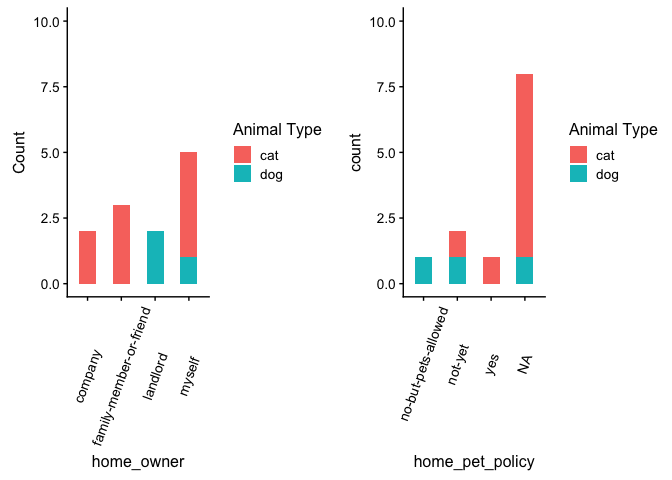
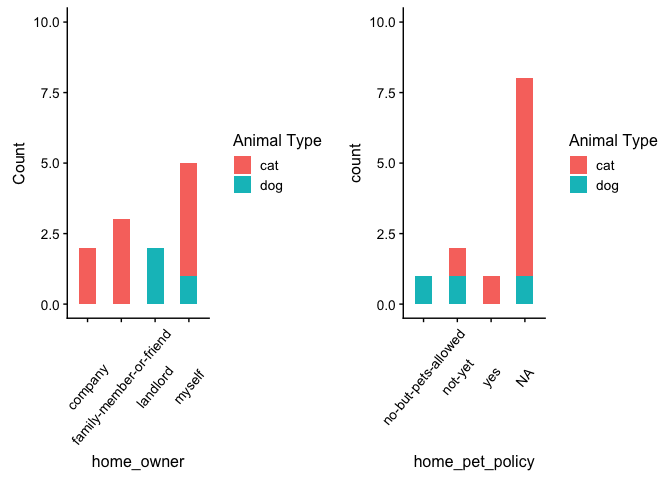
final denied application analysis

diff --git a/Analyses/2_Applicants/final_analyses/q4_denied_applications.md b/Analyses/2_Applicants/final_analyses/q4_denied_applications.md
@@ -6,7 +6,7 @@ Veena
 -   [Load Packages](#load-packages)
 -   [Load Data](#load-data)
 -   [Explore Data](#explore-data)
--   [Visualization and further analysis for applications that were denied and withdrawn](#visualization-and-further-analysis-for-applications-that-were-denied-and-withdrawn)
+-   [Visualization and further analysis for applications that were denied](#visualization-and-further-analysis-for-applications-that-were-denied)
 -   [Visualization and further analysis for applications that are red flagged](#visualization-and-further-analysis-for-applications-that-are-red-flagged)
 
 1.  Describe an adoption application's trajectory at PAWS <br> 2.4 What are the applicant and animal characteristics that predict a denied application?
@@ -33,13 +33,26 @@ Load Data
 
 ``` r
 apps_cards <- readRDS("../appsCards.rds")
+
+masterData <- readRDS("../masterapps_20190324.rds")
 ```
 
 Explore Data
 ------------
 
 ``` r
-#dim(apps_cards)
+dim(apps_cards)
+```
+
+    ## [1] 1631  202
+
+``` r
+dim(masterData)
+```
+
+    ## [1] 1684  249
+
+``` r
 is.data.frame(apps_cards)
 ```
 
@@ -85,20 +98,30 @@ dplyr::count(apps_cards, label.names_red.flag_ind) #133 red flagged
 #colnames(apps_cards)
 
 df_denied <- dplyr::filter(apps_cards, label.names_denied_ind == 1)
-df_redflag <- dplyr::filter(apps_cards, label.names_red.flag_ind == 1)
+df_redflag <- dplyr::filter(masterData, label.names_red.flag_ind == 1)
 #df_withdrawn <- dplyr::filter(apps_cards, label.names_withdrawn_ind == 1)
+dim(df_denied)
 ```
 
-Visualization and further analysis for applications that were denied and withdrawn
-----------------------------------------------------------------------------------
+    ## [1]  12 202
+
+``` r
+dim(df_redflag)
+```
+
+    ## [1] 135 249
+
+Visualization and further analysis for applications that were denied
+--------------------------------------------------------------------
 
 <br> There were 12 applications that were denied and 19 that were withdrawn. The analysis below shows the characteristics of the applications that were denied. Below are visualizations that show the budget, allergies, home owner, home pet policy, and experience breakdown for denied applications. <br>
-<pre>
-Key takeaways:
+<pre>Key takeaways:
 - No allergies for the denied application
-- Budget has no impact on denied application
-- Based on the denied applications, all household members agreed
-- Majority did not enter the home pet policy and not everyone is the home owner</pre>
+- Budget has no impact on denied application, approved applications were similar
+- All household members agreed
+- Majority did not enter the home pet policy and not everyone is the home owner
+- Many of the denied applications had unfortunate prior experiences
+</pre>
 ``` r
 #budget, all household agree, allergies, homeowner, home pet policy (lot of NA), experience
 ggplot(df_denied, aes(x=budget_monthly_ranges)) + 
@@ -142,13 +165,13 @@ g1 <- ggplot(df_denied, aes(x=home_owner)) +
   labs(y= "Count",
        fill = "Animal Type") +
   coord_cartesian(ylim=c(0, 10)) +
-  theme(axis.text.x = element_text(angle=70, vjust=0.5))
+  theme(axis.text.x = element_text(angle=50, vjust=0.5))
 
 g2 <- ggplot(df_denied, aes(x=home_pet_policy)) + 
   geom_bar(aes(fill=animal_type), width=.5) +
   labs(fill = "Animal Type") +
   coord_cartesian(ylim=c(0, 10)) +
-  theme(axis.text.x = element_text(angle=70, vjust=0.5))
+  theme(axis.text.x = element_text(angle=50, vjust=0.5))
 
 theme_set(theme_cowplot(font_size=12))
 plot_grid(g1, g2, align='h')
@@ -157,9 +180,47 @@ plot_grid(g1, g2, align='h')
 ![](q4_denied_applications_files/figure-markdown_github/denied%20and%20withdrawn-4.png)
 
 ``` r
-#trying to get all the experiences to show in one chart
-df3 <- gather(df_denied, key="Experience", value="Count", "experience_currently.have.pet_ind":"experience_pet.ran.away_ind", -date_submitted)
+#home along average; varies too much
+ggplot(df_denied, aes(x=home_alone_avg)) + 
+  geom_bar(aes(fill=animal_type), width=.5) +
+  ggtitle("Home Along Avg for Denied Applications") +
+  labs(x = "Hours",                                                            
+       y= "Count",
+       fill = "Animal Type") +
+  coord_cartesian(ylim=c(0, 15))
 ```
+
+    ## Warning: Removed 3 rows containing non-finite values (stat_count).
+
+![](q4_denied_applications_files/figure-markdown_github/denied%20and%20withdrawn-5.png)
+
+``` r
+#trying to get all the experiences to show in one chart
+#df_exp <- dplyr::count(df_denied, experience) #frequency of experiences for all denied applications
+#df_exp[order(df_exp$n, decreasing=TRUE),]
+experience_summary <- df_denied %>%
+  select(starts_with("experience_")) %>% 
+  summarise_all(sum, na.rm = TRUE) %>%
+  gather() %>%
+  mutate(cleaned_col = str_replace(key, "experience_", ""),
+         cleaned_col = str_replace(cleaned_col, "_ind", "")) %>%
+  select(cleaned_col, value)
+
+ggplot(experience_summary, aes(x= fct_reorder(cleaned_col, value, .desc=TRUE), y=value)) + 
+  geom_bar(stat = "identity", fill="#78aac3") +
+  theme(axis.text.x = element_text(angle=50, vjust=0.5)) +
+  guides(fill=FALSE) +
+  ggtitle("Prior Experiences for Denied Applications") +
+  labs(x = "Experience", y= "Count")
+```
+
+![](q4_denied_applications_files/figure-markdown_github/denied%20and%20withdrawn-6.png)
 
 Visualization and further analysis for applications that are red flagged
 ------------------------------------------------------------------------
+
+``` r
+#For the applications that are red flgged, how many end up becoming adopted
+
+#Time difference between when they were adopted and application submission date
+```
